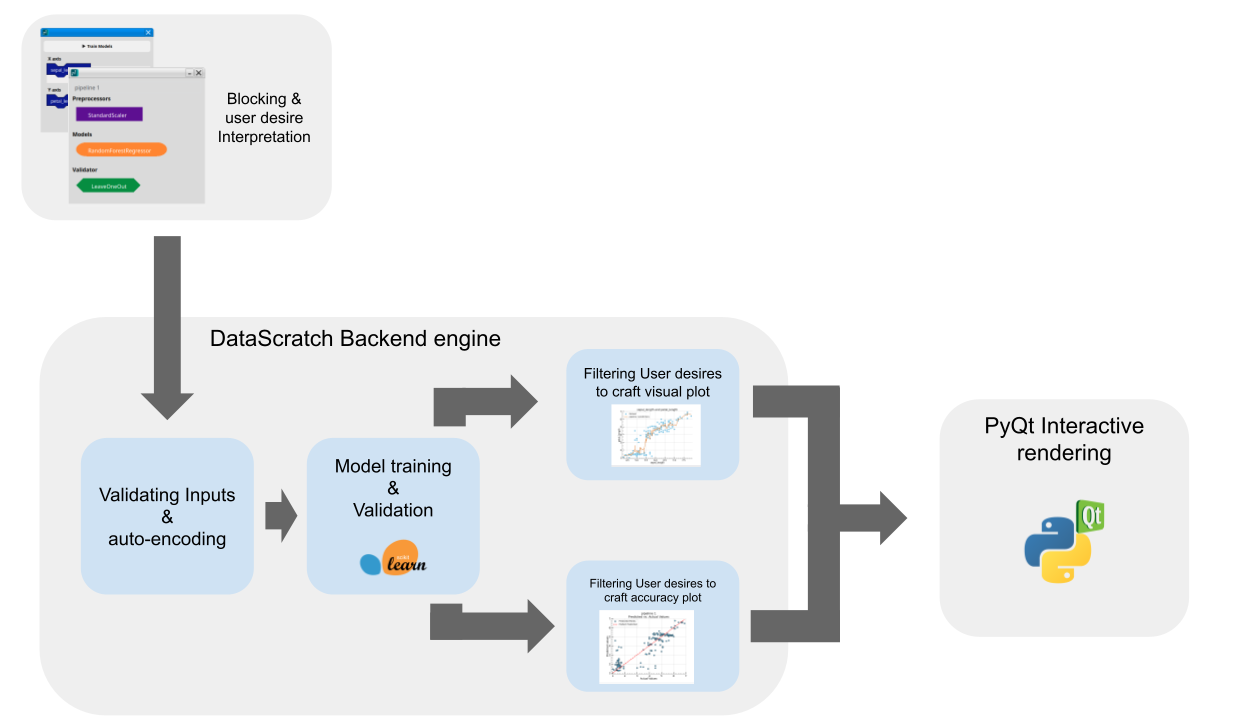
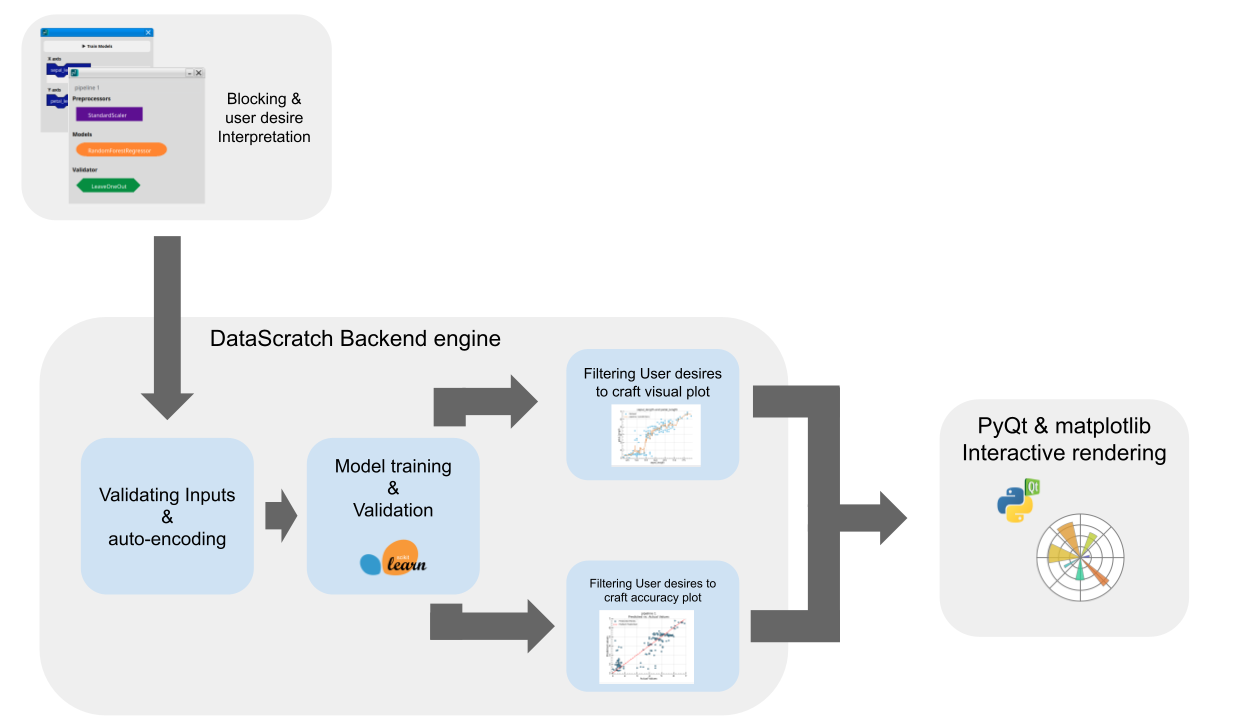
fix : 3d plotter issue + paper changes !

Changed region(s): [[0.8006, 0.6741, 0.9238, 0.8273], [0.7699, 0.5822, 0.9546, 0.6435]]

diff --git a/src/datascratch/sklearn_engine.py b/src/datascratch/sklearn_engine.py
@@ -601,8 +601,14 @@ class SklearnEngine():
                 color_cycle = SklearnEngine.get_color_map()
                 fig = plt.figure()
                 ax = fig.add_subplot(111, projection='3d')
-
+                SklearnEngine.handle_3d_column_conversion(
+                    ax,
+                    list_converted_columns,
+                    pipeline_x_values,
+                    pipeline_y_value
+                )
                 ax.scatter(x.iloc[:, 0], x.iloc[:, 1], y.iloc[:, 0], c=y, edgecolor='k')
+                
                 ax.set_xlabel(f"{pipeline_x_values[0]}")
                 ax.set_ylabel(f"{pipeline_x_values[1]}")
                 ax.set_position([0.05, 0.05, 0.9, 0.9]) 

diff --git a/paper.md b/paper.md
@@ -23,7 +23,7 @@ Important Notes:
 
 # Statement of need
 
-A lack of coding skills limits machine learning(ML) access. [@bart2016implementing;@thayer2020practical;@brunner2016teaching], This is because many ML tools require coding. This lack of accessibility limits widespread ML literacy, hindering critical evaluation of AI in modern life [@provost2013data;@jain2021smart]. To address this, we need intuitive tools that prioritize a low barrier to entry. DataFlippers aims to provide high schoolers and early undergraduates a GUI based software to explore core data science & build ML models without requiring prior programming experience.
+A lack of programming skills limits machine learning(ML) education. [@bart2016implementing;@thayer2020practical;@brunner2016teaching], This is because many ML tools require coding. This lack of accessibility limits widespread ML literacy, hindering critical evaluation of AI in modern life [@provost2013data;@jain2021smart]. To address this, we need intuitive tools that prioritize a low barrier to entry. DataFlippers aims to provide high schoolers and early undergraduates a GUI based software to explore core data science & build ML models without requiring prior programming experience.
 
 ##  State of the field
 
@@ -36,46 +36,48 @@ There are several no-code low code platforms available on the internet. However 
 | Rapid Miner | Training / Visualization   | Data Scientists | Free for individuals | No            |
 | JASP        | Statistics / Visualization | Upper Undergraduate / Graduate        | Free                 | No            |
 
-The platforms that are free and tailored to students, such as JASP[@JASP2025] is catered to teaching students statistics, rather than expressly teaching them ML. 
+The platforms that are free and tailored to students, such as JASP[@JASP2025] are catered to teaching students statistics, rather than expressly teaching them ML. 
 
 
 # Software design
 
+![Image of the fullscreen DataFlippers project page.](paper_images/Full_software.png "")
+
 ## Inspiration
-Scratch[@resnick2009scratch], a visual programming language designed for children, offers a compelling model for accessible computational learning. Its intuitive drag-and-drop interface allows beginners to grasp fundamental programming concepts without needing to decipher complex syntax. Scratch's interface has been proven to be effective at teaching novices programming concepts, and assist learners when they transition to "real" programming[@armoni2015scratch].  
+Scratch[@resnick2009scratch], a visual programming language designed for children, offers a compelling model for accessible computational learning. Its intuitive drag-and-drop interface allows beginners to grasp fundamental programming concepts without needing to decipher complex syntax. Scratch's interface has been proven to be effective at teaching novices programming concepts, and assist learners when they transition to "real" programming[@armoni2015scratch]. This drag and drop model provided inspiration for DataFlippers. The column blocks shape is modeled after the Scratch "stack" block, the "model" blocks shaped after scratch's "reporter" blocks, and the validators modeled after scratch's boolean blocks. 
 
 ## Software architecture and core project libraries
 The language for this software is python & PyQt, this is because python possesses several commonly used ML libraries[@burridge2022teaching], such as pandas[@reback2020pandas], matplotlib[@Hunter:2007], and scikit-learn[@scikit-learn;].The core ML models are provided by scikit-learn[@scikit-learn;]. There are several reasons for choosing scikit-learn, one of them is portability. scikit-learn is very common within the entry level ML field, so this means that skills that novice learn from DataFlippers could translate easily to programmatic skills, if the novice decides to learn programming. Additionally, the scikit-learn is very friendly for first time users, featuring extensive documentation, which can be viewed by hovering on each items tooltip. Pandas[@reback2020pandas] is used for handling the data, this is because pandas supports the importing of multiple standard filetype formats, such as csv, excel, and parquet. Matplotlib is utilized for the plotting features, this is because matplotlib interfaces well with the PyQt background, as well as being another standard ML library. 
 
-![Diagram of the overall software architecture. ](paper_images/inner_workings_drawing.png "Image showing the software design of the GUI")
+![Diagram of the overall software architecture. ](paper_images/inner_workings_drawing.png "")
 
 ## Drag and drop design
-The drag and drop interface is designed to reduce the syntactic complexity of programming down to drag and drop blocks, with the layout and design imitating underlying python libraries. This ensures that users have an low floor to learning, while also paving the way for them to transition to writing code later. 
+The drag and drop interface is designed to reduce the syntactic complexity of programming down to drag and drop blocks, with the layout and design imitating underlying python libraries. This ensures that users have an low floor to learning. Each model, preprocessor, and validator corresponds to a sklearn class.Each draggable block has a popup menu that is available on click. Clicking on a column opens a small descriptive statistics panel, while clicking on other blocks opens a hyperparameter tuning menu.
 
-![Image showing the difference between python blocks, and the drag and drop DataFlippers interface. Both the code and the DataFlippers blocks have same result. ](paper_images/Python_v_datascratch.png "Image showing the complexity of coding versus the new drag and drop interface.")
+![Image showing the difference between python blocks, and the drag and drop DataFlippers interface. Both the code and the DataFlippers blocks have same result. ](paper_images/Python_v_datascratch.png "")
 
 
-Each drag and drop block is loosely modeled after the buildable blocks from Scratch. This gives the user visual signifier, indicating where each block should be dropped on the interface. This ensures the interface is intuitive to people without ML experience. 
 
-![Image of the fullscreen DataFlippers project page.](paper_images/Full_software.png "Image showing a full view of the DataFlippers suite.")
+Users are also enabled to perform basic statistical analysis, this can be done by removing all of the pipeline blocks, and only plotting via the "Inputs and Outputs" block. This can allow for the user to perform various statistical analysis tasks. 
 
-Users are also enabled to perform basic statistical analysis, this can be done by removing all of the pipeline blocks, and only plotting via the "Inputs and Outputs" block. Users can also see column specific statistics by clicking on a dropdown menu on each column block.  The interface also allows the user to input manual predictions, allowing for novices to interact with their newly created AI models. This tab enables the user to export their saved models as software, which is where a user can save their trained model, and access it later. DataFlippers also enables the exporting as pickle, which fulfills the needs of potential power users, by allowing them to interface with the python object directly, if desired.
+![The descriptive statistical abilities of the dataflippers software. Each of these can be made entirely from drag and drop. ](paper_images/Dataflippers_stat_abilites.png "")
+
+
 # Teaching materials
 
 ## Informal user testing
 DataFlippers has undergone informal usability testing with a small group of novice users. While using an early version of DataFlippers in October of 2025, a user remarked his disappointment at being unable to plot multiple models at the same time. Feedback from these sessions was used to improve the overall design of the drag and drop plotting, and later add a multi-model setup.
 
-![Image showing the model comparison. This would allow novices to understand and visually see the differences between different types of ML models. ](paper_images/Example_model_comparison.png "Image showing model comparison for the software. ")
+![Image showing the model comparison. This would allow novices to understand and visually see the differences between different types of ML models. ](paper_images/Example_model_comparison.png "")
 
 DataFlippers later underwent a second usability test, in which users would be instructed to complete common data science and ML tasks. The "penguins" dataset consistently elicited the most positive feedback from participants, with participants stating that the penguins offered easily visualizable attributes such as flipper length, weight and species. This provided inspiration for both the name and the logo for DataFlippers.
 
 ## User documentation
-The main DataFlippers page features a [walkthrough tutorial](https://cbennington852.github.io/DataFlippers/Basics/My-First-AI-Model) on how to use the software. The website also features descriptions of core ML concepts such as [classification](https://cbennington852.github.io/DataFlippers/Basics/Classifiers), [regression](https://cbennington852.github.io/DataFlippers/Basics/Regressors), [validators](https://cbennington852.github.io/DataFlippers/Basics/Validators), and [pre-processors](https://cbennington852.github.io/DataFlippers/Basics/Preproccessors). The source code is available at [DataFlippers GitHub](https://github.com/cbennington852/DataFlippers), and the software can be downloaded on windows or linux for free at the [DataFlippers homepage](https://cbennington852.github.io/DataFlippers/)
+The main DataFlippers page features a [walkthrough tutorial](https://cbennington852.github.io/DataFlippers/Basics/My-First-AI-Model) on how to use the software. The website also features descriptions of core ML concepts such as [classification](https://cbennington852.github.io/DataFlippers/Lessons/4.-Classification), [regression](https://cbennington852.github.io/DataFlippers/Lessons/3.-Regression), [statistical analysis](https://cbennington852.github.io/DataFlippers/Lessons/2.-Statistical-Analysis), and [pre-processors](hhttps://cbennington852.github.io/DataFlippers/Lessons/7.-Preproccessors). The source code is available at [DataFlippers GitHub](https://github.com/cbennington852/DataFlippers), and the software can be downloaded on windows or linux for free at the [DataFlippers homepage](https://cbennington852.github.io/DataFlippers/)
 
 
 ## Example datasets & Lab questions
 Datascratch comes pre-loaded with several example datasets. These example datasets allow novices to get learning right away, without having to procure a dataset first. These datasets are a blend of commonly used data science teaching datasets such as [palmers_penguins](https://cbennington852.github.io/DataFlippers/Example-Datasets/penguins)[@palmerpenguins], [diamonds dataset](https://cbennington852.github.io/DataFlippers/Example-Datasets/diamond_measurements)[@Waskom2021] and the iris dataset[@iris_53], as well as datasets that would be enticing to a younger audience, such as a dataset containing information about [pokemon](https://cbennington852.github.io/DataFlippers/Example-Datasets/pokemon_statistics)[@KagglePokemon] and a dataset about [minecraft biome](https://cbennington852.github.io/DataFlippers/Example-Datasets/minecraft_biomes) statistics[@KaggleMinecraft]. These example datasets come with 3-5 lab questions each, which can be accessed from the main DataFlippers website. These lab questions are intended to be part of an in-person class exercise, where students could participate in groups of 2-3 to complete the lab questions, with guidance from an educator. 
 
-Additionally, there is a set of [lecture slides](https://cbennington852.github.io/DataFlippers/Lessons/1.-Introduction). These cover how to use the software, as well as some basic ML topics. The goal of these slideshows is to give educators quality materials that they can pick up and adapt to their course as needed. 
 
 # References
